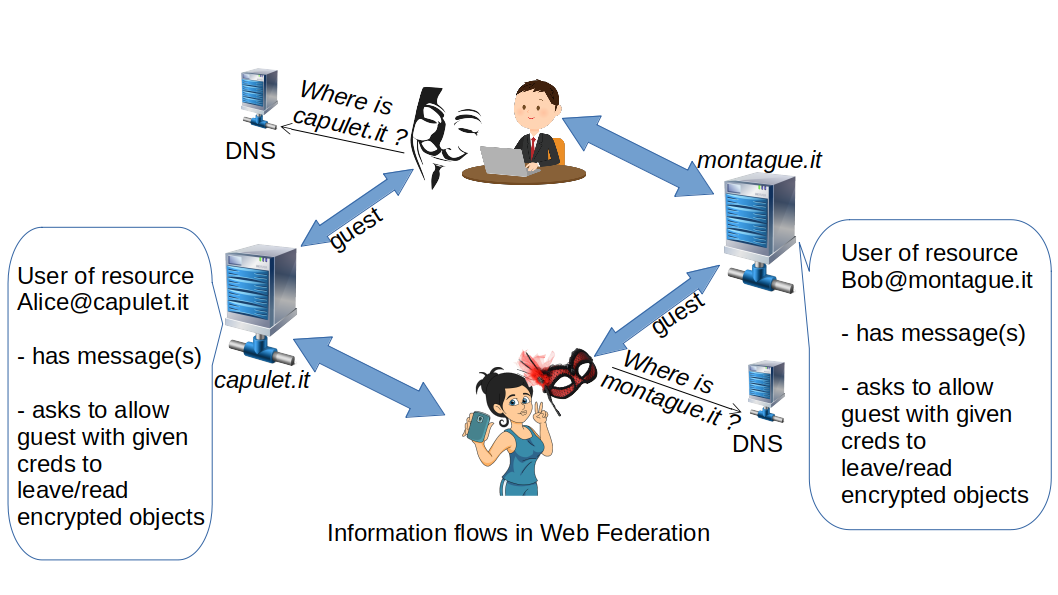
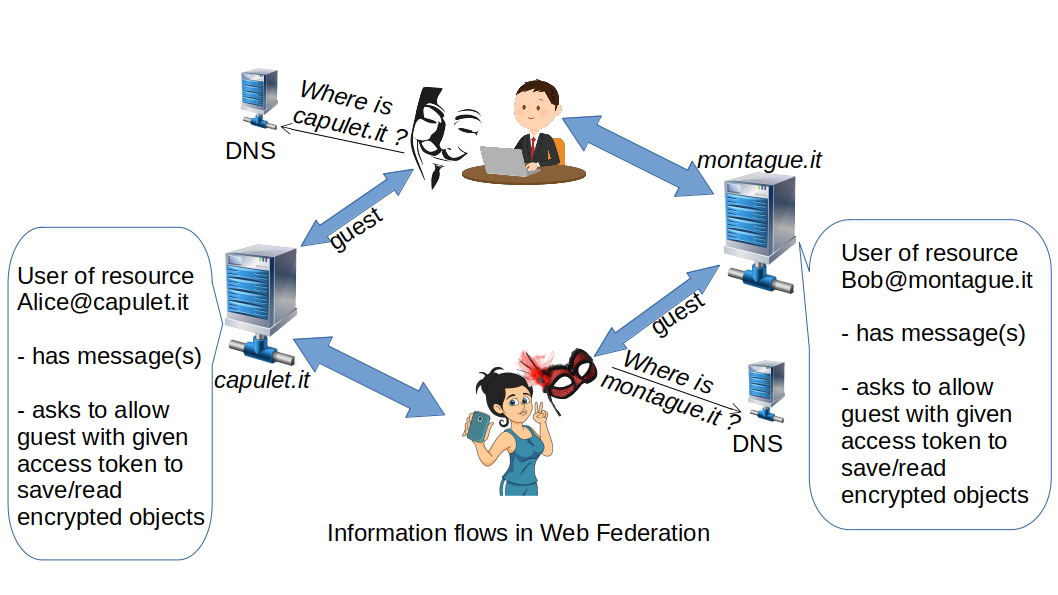
.

Changed region(s): [[0.0, 0.7563, 0.1871, 0.8471], [0.7798, 0.7261, 0.9669, 0.8168]]

diff --git a/README.md b/README.md
@@ -130,9 +130,17 @@ Besides metadata problem, cooperative relationship between servers requires coop
 
 #### Web style Federation
 
+On the web, when someone uses simultaneously two different web sites, respective servers don't communicate and providers don't cooperate with each other. There is no cooperation in web style federation for vendors to break! If a user doesn't want to communicate to some domain, and stops, it is user's own choice. This is a perfect foundation for utility protocols.
+
 ![Relationships between parties in Web style Federation](federation/roles_in_web_federation.png)
 
+In classical federation clients delegate to own server communication with server's of peers. In web federation, clients connect to servers of their peers. And this leads to reduction of metadata that is needed by servers for work.
+
 ![Information flows in Web style Federation](federation/data_flows_in_web_federation.png)
+
+Server only needs to accept some encrypted data for its users, and/or allow guests to pick encrypted data in accordance with users' directives. This reduces metadata to its minimum, server doesn't need to know who is on another side of a guest connection.
+
+This web federation pattern also shows that there need to be a naming system for it to work, like DNS. Moreover, hiding of IP addresses can be done with VPN's, Tor and mixnets, suggesting reuse of existing transport layers. Formulation on top of existing HTTP/2 may focus our architectural effort on information flows and security.
 
 
 ## Implementations and standards
